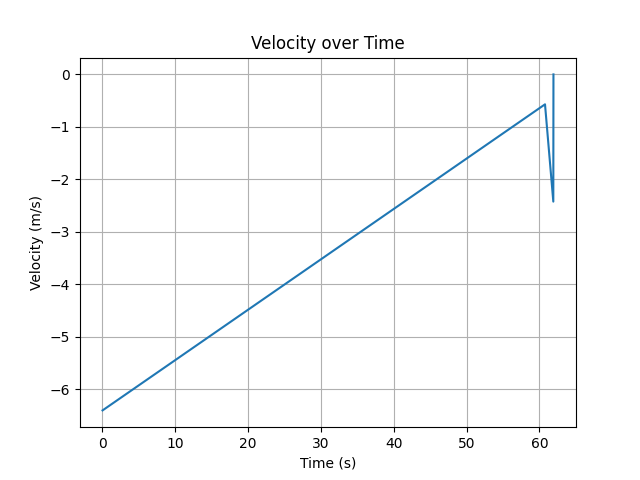
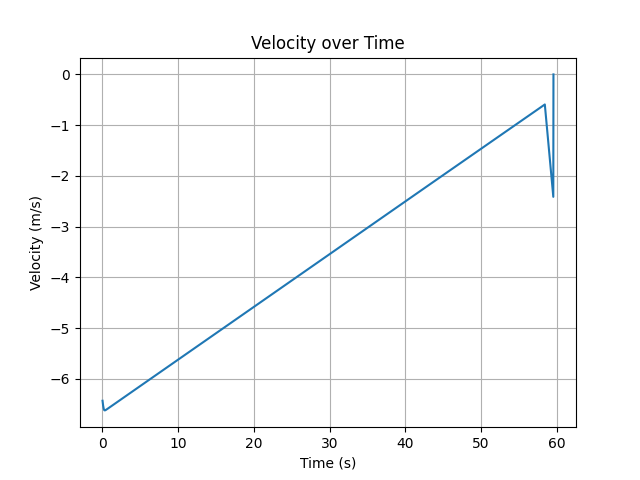
made a rate limiter using gradual lag and max rate

diff --git a/guidance.py b/guidance.py
@@ -7,7 +7,8 @@ class Guidance:
         self.space_ship = Space_ship()
         self.lunar = Lunar_Environment()
         self.dt = 0.02
-        self.thrust_max = 2.1*(self.space_ship.curr_mass * self.lunar.gravity)
+        self.max_thrust_rate = 85000
+        self.time_lag = 0.075
         self.data_collected = {"time":[0.0],
                                "thrust":[self.space_ship.thrust], 
                                "altitude":[self.space_ship.altitude],
@@ -20,8 +21,10 @@ class Guidance:
         n = 0
         while self.space_ship.altitude > 0:
             #gonna use V^2= Vo^2 + 2achange in x
-            new_a = ((self.space_ship.velocity)**2)/(2*self.space_ship.altitude)
-            self.space_ship.thrust = ((self.space_ship.curr_mass * self.lunar.gravity)+(self.space_ship.curr_mass*new_a))
+            new_a = ((self.space_ship.velocity)**2)/(2*self.space_ship.altitude) *math.copysign(1, -self.space_ship.velocity)
+            thrust_needed = ((self.space_ship.curr_mass * self.lunar.gravity)+(self.space_ship.curr_mass*new_a))
+            dr = min((abs(thrust_needed-self.space_ship.thrust))/0.075, (self.max_thrust_rate))
+            self.space_ship.thrust = self.space_ship.thrust+(dr*self.dt*(math.copysign(1, (thrust_needed-self.space_ship.thrust))))
             self.data_collected["thrust"].append(self.space_ship.thrust)
             mass_flow_rate = (self.space_ship.thrust/(self.space_ship.isp * 9.80665))
             self.space_ship.calc_acceleration(self.lunar.gravity)
@@ -66,6 +69,7 @@ class Guidance:
             self.space_ship.altitude += self.space_ship.velocity *self.dt
             self.space_ship.altitude = max(self.space_ship.altitude, 0)
             self.data_collected["altitude"].append(self.space_ship.altitude)
+
 if __name__ == "__main__":
     guide = Guidance()
     guide.simulation()
